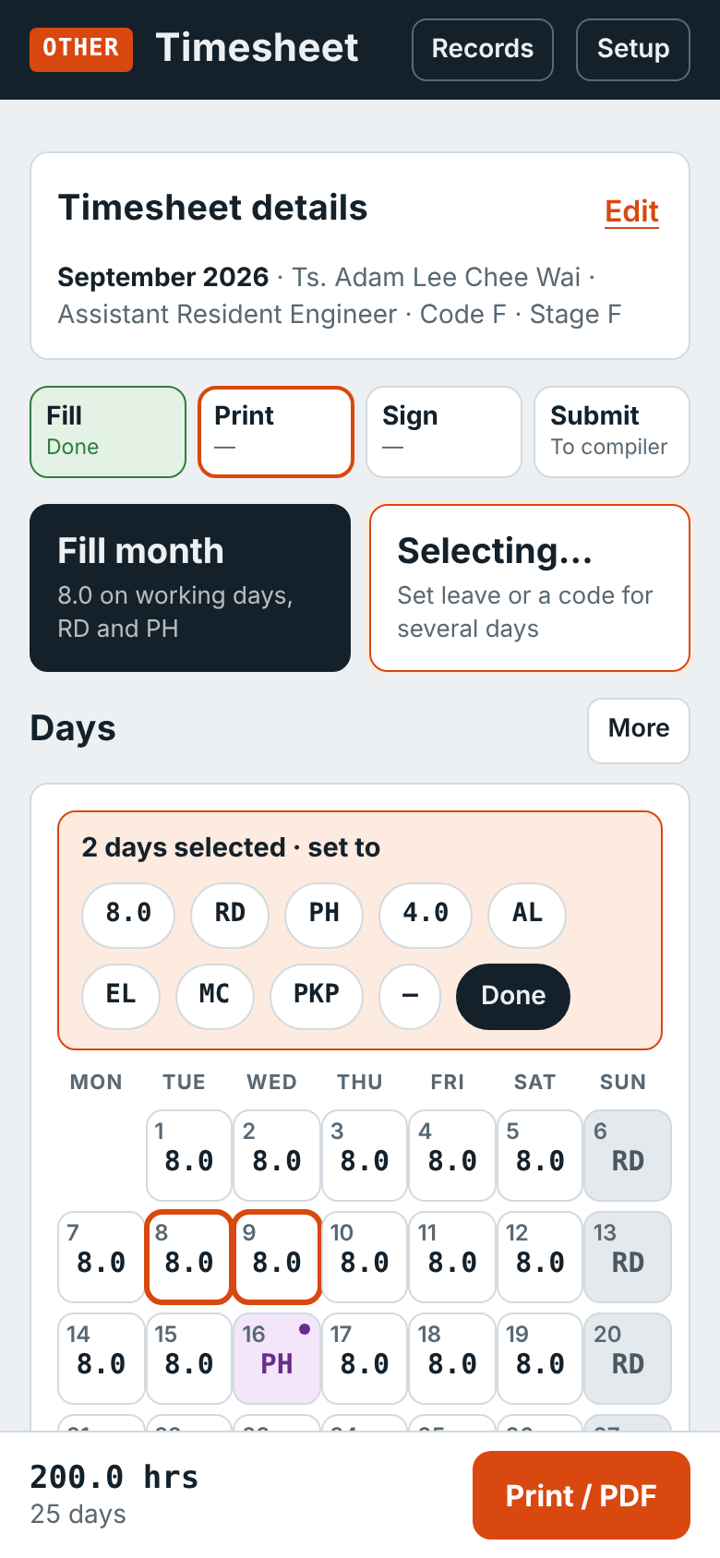
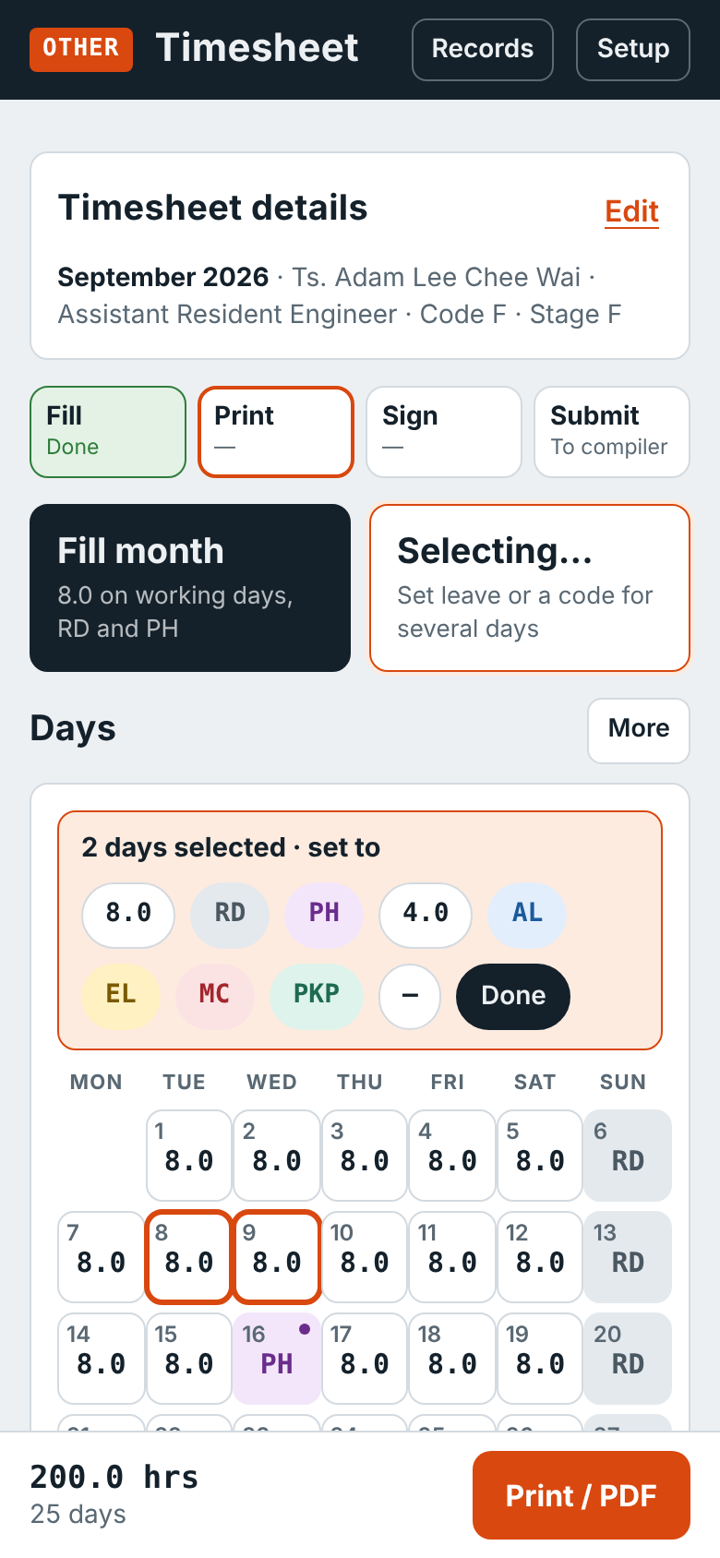
v0.9.7 beta - colour fill option

Changed region(s): [[0.0917, 0.5546, 0.5194, 0.6778], [0.6722, 0.5546, 0.7944, 0.6162]]

diff --git a/index.html b/index.html
@@ -22,6 +22,7 @@
   --bg:#EDF0F2; --surface:#FFFFFF; --sunk:#F5F7F8; --ink:#14212B; --muted:#596873; --line:#D3DAE0;
   --accent:#D9480F; --accent-ink:#FFFFFF; --accent-soft:#FDEBDF; --ok:#2F7D3B; --ok-soft:#E3F2E5; --warn:#9A5B00; --warn-soft:#FBF0D9;
   --rd:#E4E9ED; --rd-ink:#4A5862; --ph:#F3E6FA; --ph-ink:#6B2D8C; --lv:#E2EEFB; --lv-ink:#1C5A9C;
+  --el:#FFF1C2; --el-ink:#7A5A00; --mc:#FBE3E4; --mc-ink:#A3262E; --pkp:#DDF3EC; --pkp-ink:#1E6B52; --oc:#EFE6DC; --oc-ink:#6B4E2E;
   --chip:#E4E9ED; --scrim:rgba(14,22,28,.55); --shadow:0 1px 2px rgba(20,33,43,.08),0 4px 14px rgba(20,33,43,.06);
   --bar:#14212B; --bar-ink:#EDF0F2;
   --f-body:"Barlow",system-ui,-apple-system,"Segoe UI",Roboto,Arial,sans-serif;
@@ -33,11 +34,13 @@
   --bg:#0E1418; --surface:#172027; --sunk:#121A20; --ink:#E6ECF0; --muted:#97A5AF; --line:#2A3640;
   --accent:#FF7A33; --accent-ink:#1A0C03; --accent-soft:#3A2214; --ok:#6CC27A; --ok-soft:#18301D; --warn:#E3A93B; --warn-soft:#33270F;
   --rd:#22303A; --rd-ink:#A9B7C1; --ph:#2E2038; --ph-ink:#D6A8EE; --lv:#16283A; --lv-ink:#8DBDF0;
+  --el:#33290F; --el-ink:#EBC45E; --mc:#3A1B1F; --mc-ink:#F09AA0; --pkp:#13302A; --pkp-ink:#7FD3B7; --oc:#30261C; --oc-ink:#D7B48C;
   --chip:#22303A; --scrim:rgba(0,0,0,.6); --shadow:0 1px 2px rgba(0,0,0,.3); --bar:#0A1014; color-scheme:dark}}
 :root[data-theme="dark"]{
   --bg:#0E1418; --surface:#172027; --sunk:#121A20; --ink:#E6ECF0; --muted:#97A5AF; --line:#2A3640;
   --accent:#FF7A33; --accent-ink:#1A0C03; --accent-soft:#3A2214; --ok:#6CC27A; --ok-soft:#18301D; --warn:#E3A93B; --warn-soft:#33270F;
   --rd:#22303A; --rd-ink:#A9B7C1; --ph:#2E2038; --ph-ink:#D6A8EE; --lv:#16283A; --lv-ink:#8DBDF0;
+  --el:#33290F; --el-ink:#EBC45E; --mc:#3A1B1F; --mc-ink:#F09AA0; --pkp:#13302A; --pkp-ink:#7FD3B7; --oc:#30261C; --oc-ink:#D7B48C;
   --chip:#22303A; --scrim:rgba(0,0,0,.6); --shadow:0 1px 2px rgba(0,0,0,.3); --bar:#0A1014; color-scheme:dark}
 *{box-sizing:border-box}
 html,body{background:var(--bg);color:var(--ink);margin:0}
@@ -117,13 +120,19 @@ details.more[open] summary{margin-bottom:8px}
 .day.RD{background:var(--rd)} .day.RD .dv{color:var(--rd-ink)}
 .day.PH{background:var(--ph)} .day.PH .dv{color:var(--ph-ink)}
 .day.LV{background:var(--lv)} .day.LV .dv{color:var(--lv-ink)}
+.k-RD{--kb:var(--rd);--ki:var(--rd-ink)} .k-PH{--kb:var(--ph);--ki:var(--ph-ink)} .k-AL{--kb:var(--lv);--ki:var(--lv-ink)} .k-EL{--kb:var(--el);--ki:var(--el-ink)}
+.k-MC{--kb:var(--mc);--ki:var(--mc-ink)} .k-PKP{--kb:var(--pkp);--ki:var(--pkp-ink)} .k-OC{--kb:var(--oc);--ki:var(--oc-ink)}
+.day[class*=" k-"]{background:var(--kb);border-color:transparent} .day[class*=" k-"] .dv{color:var(--ki)}
+.chip[class*=" k-"]{background:var(--kb);border-color:transparent} .chip[class*=" k-"] b{color:var(--ki)}
+.bulkbar button[class*="k-"]{background:var(--kb);color:var(--ki);border-color:transparent}
 .day.isph::after{content:"";position:absolute;top:5px;right:5px;width:6px;height:6px;border-radius:50%;background:var(--ph-ink)}
 .day.today{outline:2px solid var(--ink);outline-offset:-1px}
 .day.sel{outline:3px solid var(--accent);outline-offset:-2px}
 .day.note-mark .dn::after{content:" •";color:var(--accent)}
 .blank{visibility:hidden}
 .legend{display:flex;gap:6px 12px;flex-wrap:wrap;font-size:12.5px;color:var(--muted);margin-top:10px}
-.legend i{display:inline-block;width:12px;height:12px;border-radius:3px;vertical-align:-2px;margin-right:4px;border:1px solid var(--line)}
+.legend i{display:inline-block;min-width:26px;height:17px;padding:0 3px;border-radius:4px;vertical-align:-3px;margin-right:4px;border:1px solid transparent;background:var(--kb,var(--surface));color:var(--ki,var(--ink));font:600 10.5px/15px var(--f-mono);font-style:normal;text-align:center}
+.legend i.wk{border-color:var(--line)} .legend i.bl{border:1px dashed var(--muted);background:transparent;color:var(--muted)}
 .bulkbar{display:flex;align-items:center;gap:8px;flex-wrap:wrap;background:var(--accent-soft);border:1px solid var(--accent);border-radius:var(--r);padding:10px 12px;margin-bottom:10px}
 .bulkbar b{flex:1 1 100%;font-size:14.5px}
 .bulkbar button{border:1px solid var(--line);background:var(--surface);border-radius:999px;padding:6px 12px;font-weight:600;font-family:var(--f-mono);font-size:14px;min-height:36px}
@@ -188,7 +197,7 @@ details.more[open] summary{margin-bottom:8px}
 .chip{border:1px solid var(--line);background:var(--sunk);border-radius:10px;min-height:54px;padding:6px 4px;display:flex;flex-direction:column;align-items:center;justify-content:center;gap:1px;color:var(--ink)}
 .chip b{font-family:var(--f-mono);font-size:16px}
 .chip span{font-size:11.5px;color:var(--muted);text-align:center;line-height:1.15}
-.chip[aria-pressed="true"]{border:2px solid var(--accent);background:var(--accent-soft)}
+.chip[aria-pressed="true"]{border:2px solid var(--accent);background:var(--accent-soft)} .chip[class*=" k-"][aria-pressed="true"]{border:2px solid var(--accent);background:var(--kb)}
 .otgrid{display:grid;grid-template-columns:minmax(0,1fr) minmax(0,1fr);gap:8px}
 .stepper{display:flex;align-items:center;gap:4px}
 .stepper input{text-align:center;font-family:var(--f-mono)}
@@ -319,14 +328,7 @@ table.tbl td.n{font-family:var(--f-mono);text-align:right}
     <div class="panel">
       <div class="bulkbar" id="bulkbar" hidden><b id="bulk-n">Tap the days, then a code</b><span id="bulk-codes" style="display:contents"></span><button type="button" id="bulk-done" style="font-family:var(--f-body);background:var(--ink);color:var(--bg);border-color:var(--ink)">Done</button></div>
       <div class="cal" id="cal"></div>
-      <div class="legend">
-        <span><i style="background:var(--surface)"></i>Hours</span>
-        <span><i style="background:var(--rd)"></i>RD</span>
-        <span><i style="background:var(--ph)"></i>PH</span>
-        <span><i style="background:var(--lv)"></i>Leave</span>
-        <span><b style="color:var(--accent);font-family:var(--f-mono)">+2.0</b> overtime</span>
-        <span><b style="color:var(--accent)">•</b> note</span>
-      </div>
+      <div class="legend" id="cal-legend"></div>
     </div>
   </section>
 
@@ -383,6 +385,7 @@ table.tbl td.n{font-family:var(--f-mono);text-align:right}
     <div id="out-checks"></div>
     <div class="preview" id="preview"></div>
     <div class="out-actions">
+      <div class="oa"><b>Colour fill</b><div class="seg" data-fillseg></div><p data-fillhint></p></div>
       <div class="oa"><b>Mark under the form</b><div class="seg" data-markseg></div><p data-markhint></p></div>
       <div class="oa"><b>PDF for printing</b><button class="btn acc" id="btn-pdf-share" type="button">Share</button><button class="btn" id="btn-pdf-save" type="button">Save</button><button class="btn" id="btn-pdf-open" type="button">Open</button><p>A4 landscape, the official form. Print at actual size (100%), then sign. <button class="linkbtn" id="btn-sigadj" type="button">Adjust signature position</button></p></div>
       <div class="oa"><b>Excel</b><button class="btn" id="btn-xlsx" type="button">Save Excel</button><p>The official spreadsheet form, filled in.</p></div>
@@ -417,6 +420,7 @@ table.tbl td.n{font-family:var(--f-mono);text-align:right}
     </div>
     <button class="btn sm" id="t-addmine" type="button" style="justify-self:start">Add mine (this month)</button>
     <div id="t-list"></div>
+    <div class="rgrow"><b style="font-size:15px">Colour fill on the printed forms</b><div class="seg" data-fillseg></div><span class="s" data-fillhint></span></div>
     <div class="rgrow"><b style="font-size:15px">Mark under the printed forms</b><div class="seg" data-markseg></div><span class="s" data-markhint></span></div>
     <div class="btns"><button class="btn" id="t-signall" type="button">Sign all as RE</button><button class="btn pri" id="t-preview" type="button">Preview</button><button class="btn acc" id="t-pdf" type="button">Print all (PDF)</button><button class="btn" id="t-xlsx" type="button">One Excel workbook</button><button class="btn sm" id="t-csv" type="button">Summary CSV</button><button class="btn sm danger" id="t-clear" type="button">Clear</button></div>
 
@@ -599,6 +603,7 @@ function cfg() {
     signLayout: o.signLayout ?? PK.signLayout ?? "form",
     sigAdj: o.sigAdj ?? PK.sigAdj ?? {},
     pageId: (v => v === true ? "data" : v === "id" ? "sum" : v || "off")(o.pageId ?? PK.pageId ?? "off"),
+    colorFill: !!(o.colorFill ?? PK.colorFill ?? false),
     verifiers: Object.assign({ v1Name: "", v1Title: "Resident Engineer", v2Name: "", v2Title: "S.O. Representative" }, PK.verifiers || {}, o.verifiers || {}),
   };
 }
@@ -621,12 +626,13 @@ function month(y = S.ui.y, m = S.ui.m, create = true) {
   return S.months[k];
 }
 function touch(md) { md.updated = new Date().toISOString(); save(); }
+/* colour key of a day code: RD, PH, AL, EL, MC, PKP, or OC for any other code */
+function codeKey(v) { v = String(v ?? "").trim().toUpperCase(); return ["RD", "PH", "AL", "EL", "MC", "PKP"].includes(v) ? v : "OC"; }
+function kcls(v) { return v === "" || v == null || isNum(v) ? "" : "k-" + codeKey(v); }
 function classOf(v) {
   if (v === "" || v == null) return "empty";
   if (isNum(v)) return "HRS";
-  if (v === "RD") return "RD";
-  if (v === "PH") return "PH";
-  return "LV";
+  return (v === "RD" ? "RD" : v === "PH" ? "PH" : "LV") + " " + kcls(v);
 }
 function totals(md, y, m) {
   const n = daysIn(y, m);
@@ -687,6 +693,18 @@ const ROLE = {
   label: { sz: 10, b: 1, h: "left" }, month: { sz: 10, b: 1, h: "center" }, year: { sz: 10, b: 1, h: "left" },
 };
 const RED = "FF0000";
+/* optional colour fill on the printed form: the day's column (time codes 1-5) for RD, PH and leave; text stays black.
+   Light print-friendly tints of the app's calendar colours. */
+const PRINT_FILL = { RD: "D9DEE3", PH: "E9D5F5", AL: "CFE2F7", EL: "FFE9A8", MC: "F7CFD2", PKP: "C9EBDF", OC: "E6D8C8" };
+function fillCells(sheet) {
+  if (!sheet.cfg.colorFill) return [];
+  const { y, m, md } = sheet, out = [];
+  for (let d = 1; d <= daysIn(y, m); d++) {
+    const v = md.rows[0].v[d]; if (v === undefined || v === "" || isNum(v)) continue;
+    for (let i = 0; i < md.rows.length; i++) out.push({ ref: `${dayCol(d)}${17 + i}`, color: PRINT_FILL[codeKey(v)] });
+  }
+  return out;
+}
 const DOTS = "…………………………………………………………………";
 
 function formCells(sheet) {
@@ -815,6 +833,7 @@ function textOps(rc, spec, runs) {
 }
 function sheetOps(sheet) {
   const L = LAYOUT, G = geometry(L), ops = [];
+  fillCells(sheet).forEach(f => { const r = G.rect(f.ref); ops.push({ k: "fill", x: r.x, y: r.y, w: r.w, h: r.h, color: f.color }); });
   L.lines.forEach(([x1, y1, x2, y2]) => ops.push({ k: "line", x1, y1, x2, y2 }));
   L.images.forEach(im => ops.push({ k: "img", x: im.x, y: im.y, w: im.w, h: im.h, src: im.src }));
   L.shapes.forEach(sh => {
@@ -858,7 +877,8 @@ async function drawSheetPDF(doc, sheet) {
   const X = x => pl.x0 + x * k, Y = y => pl.y0 + y * k;
   doc.setDrawColor(0); doc.setLineWidth(0.5);
   for (const o of ops) {
-    if (o.k === "line") doc.line(X(o.x1), Y(o.y1), X(o.x2), Y(o.y2));
+    if (o.k === "fill") { doc.setFillColor(...hex(o.color)); doc.rect(X(o.x), Y(o.y), o.w * k, o.h * k, "F"); }
+    else if (o.k === "line") doc.line(X(o.x1), Y(o.y1), X(o.x2), Y(o.y2));
     else if (o.k === "img") doc.addImage(o.data || await logoDataURL(o.src), o.fmt || "JPEG", X(o.x), Y(o.y), o.w * k, o.h * k);
     else if (o.k === "text") {
       let widths = o.runs.map(r => measure(r.t, r.sz, r.b));
@@ -895,6 +915,7 @@ function sheetSVG(sheet) {
   const { ops, W, H } = sheetOps(sheet), pl = pagePlacement(LAYOUT, W, H), k = pl.k;
   const X = x => (pl.x0 + x * k).toFixed(2), Y = y => (pl.y0 + y * k).toFixed(2);
   let s = `<svg xmlns="http://www.w3.org/2000/svg" viewBox="0 0 ${pl.pw} ${pl.ph}" role="img" aria-label="Timesheet preview"><rect width="100%" height="100%" fill="#fff"/>`;
+  ops.filter(o => o.k === "fill").forEach(o => s += `<rect x="${X(o.x)}" y="${Y(o.y)}" width="${(o.w * k).toFixed(2)}" height="${(o.h * k).toFixed(2)}" fill="#${o.color}"/>`);
   s += `<g stroke="#000" stroke-width="0.5">`;
   ops.filter(o => o.k === "line").forEach(o => s += `<line x1="${X(o.x1)}" y1="${Y(o.y1)}" x2="${X(o.x2)}" y2="${Y(o.y2)}"/>`);
   s += `</g><g font-family="Helvetica, Arial, sans-serif">`;
@@ -949,14 +970,36 @@ function xmlCellWriter(doc) {
     const fa = t("family"); fa.setAttribute("val", "2"); pr.appendChild(fa);
     r.appendChild(pr); const tt = t("t", run.t); tt.setAttribute("xml:space", "preserve"); r.appendChild(tt); return r;
   }
-  return function write(c, styleId) {
+  function restyle(ref, fn) {   // change a cell's style without touching its content
+    const [cl, r] = splitRef(ref), row = rowEl(r), cs = [...row.getElementsByTagName("c")];
+    let el = cs.find(x => x.getAttribute("r") === ref);
+    if (!el) { el = doc.createElementNS(NS, "c"); el.setAttribute("r", ref); const after = cs.find(x => colIdx(splitRef(x.getAttribute("r"))[0]) > colIdx(cl)); row.insertBefore(el, after || null); }
+    el.setAttribute("s", fn(Number(el.getAttribute("s") || 0)));
+  }
+  write.restyle = restyle;
+  return write;
+  function write(c, styleId) {
     const el = cellEl(c.ref);
     if (styleId != null) el.setAttribute("s", styleId);
     if (c.rich) { el.setAttribute("t", "inlineStr"); const is = t("is"); c.rich.forEach(r => is.appendChild(runEl(r))); el.appendChild(is); }
     else if (c.formula) { el.appendChild(t("f", c.formula)); el.appendChild(t("v", String(c.num))); }
     else if (c.num != null && c.str == null) el.appendChild(t("v", String(c.num)));
     else { el.setAttribute("t", "inlineStr"); const is = t("is"), tt = t("t", c.str); tt.setAttribute("xml:space", "preserve"); is.appendChild(tt); el.appendChild(is); }
-  };
+  }
+}
+/* styles.xml helper: a copy of cell style `s` with a solid fill colour (cached) */
+function fillStyler(stylesXml) {
+  const doc = new DOMParser().parseFromString(stylesXml, "application/xml"), fills = doc.getElementsByTagName("fills")[0], xfs = doc.getElementsByTagName("cellXfs")[0];
+  const fillIds = {}, cache = {};
+  const fillId = color => { if (fillIds[color] != null) return fillIds[color];
+    const f = doc.createElementNS(NS, "fill"), pf = doc.createElementNS(NS, "patternFill"), fg = doc.createElementNS(NS, "fgColor"), bg = doc.createElementNS(NS, "bgColor");
+    pf.setAttribute("patternType", "solid"); fg.setAttribute("rgb", "FF" + color); bg.setAttribute("indexed", "64"); pf.appendChild(fg); pf.appendChild(bg); f.appendChild(pf); fills.appendChild(f);
+    fills.setAttribute("count", fills.getElementsByTagName("fill").length); return (fillIds[color] = fills.getElementsByTagName("fill").length - 1); };
+  return { style(sid, color) { const key = sid + "|" + color; if (cache[key] != null) return cache[key];
+      const list = [...xfs.getElementsByTagName("xf")], x = (list[sid] || list[0]).cloneNode(true);
+      x.setAttribute("fillId", fillId(color)); x.setAttribute("applyFill", "1"); xfs.appendChild(x); xfs.setAttribute("count", list.length + 1);
+      return (cache[key] = list.length); },
+    xml: () => new XMLSerializer().serializeToString(doc) };
 }
 function safeSheetName(s, used) {
   let n = String(s).replace(/[\[\]:*?/\\]/g, " ").replace(/\s+/g, " ").trim().slice(0, 31) || "Sheet";
@@ -971,12 +1014,14 @@ async function makeXLSX(sheets, names) {
   const tplDrawRels = await zip.file("xl/drawings/_rels/drawing1.xml.rels").async("string");
   const sheetRels = n => `<?xml version="1.0" encoding="UTF-8" standalone="yes"?>\n<Relationships xmlns="http://schemas.openxmlformats.org/package/2006/relationships"><Relationship Id="rId1" Type="http://schemas.openxmlformats.org/officeDocument/2006/relationships/drawing" Target="../drawings/drawing${n}.xml"/></Relationships>`;
   const ids = LAYOUT.styles, used = new Set();
+  const styler = sheets.some(sh => sh.cfg.colorFill) ? fillStyler(await zip.file("xl/styles.xml").async("string")) : null;
   const sheetEntries = [], definedNames = [], overrides = [], wbRels = [];
   sheets.forEach((sh, i) => {
     const n = i + 1;
     const doc = new DOMParser().parseFromString(tplSheet, "application/xml");
     const write = xmlCellWriter(doc);
     formCells(sh).forEach(c => write(c, ids[c.role]));
+    if (styler) fillCells(sh).forEach(f => write.restyle(f.ref, sid => styler.style(sid, f.color)));
     // days beyond the month: clear the heading so the sheet shows the real month length
     const xml = new XMLSerializer().serializeToString(doc);
     zip.file(`xl/worksheets/sheet${n}.xml`, xml);
@@ -1003,6 +1048,7 @@ async function makeXLSX(sheets, names) {
     wbRels.push(`<Relationship Id="rId${n}" Type="http://schemas.openxmlformats.org/officeDocument/2006/relationships/worksheet" Target="worksheets/sheet${n}.xml"/>`);
   });
   const N = sheets.length;
+  if (styler) zip.file("xl/styles.xml", styler.xml());
   zip.file("xl/workbook.xml", `<?xml version="1.0" encoding="UTF-8" standalone="yes"?>\n<workbook xmlns="${NS}" xmlns:r="http://schemas.openxmlformats.org/officeDocument/2006/relationships"><workbookPr defaultThemeVersion="124226"/><bookViews><workbookView xWindow="0" yWindow="0" windowWidth="25000" windowHeight="13000" activeTab="0"/></bookViews><sheets>${sheetEntries.join("")}</sheets><definedNames>${definedNames.join("")}</definedNames><calcPr calcId="191029" fullCalcOnLoad="1"/></workbook>`);
   zip.file("xl/_rels/workbook.xml.rels", `<?xml version="1.0" encoding="UTF-8" standalone="yes"?>\n<Relationships xmlns="http://schemas.openxmlformats.org/package/2006/relationships">${wbRels.join("")}<Relationship Id="rId${N + 1}" Type="http://schemas.openxmlformats.org/officeDocument/2006/relationships/theme" Target="theme/theme1.xml"/><Relationship Id="rId${N + 2}" Type="http://schemas.openxmlformats.org/officeDocument/2006/relationships/styles" Target="styles.xml"/></Relationships>`);
   zip.file("[Content_Types].xml", `<?xml version="1.0" encoding="UTF-8" standalone="yes"?>\n<Types xmlns="http://schemas.openxmlformats.org/package/2006/content-types"><Default Extension="jpeg" ContentType="image/jpeg"/><Default Extension="png" ContentType="image/png"/><Default Extension="rels" ContentType="application/vnd.openxmlformats-package.relationships+xml"/><Default Extension="xml" ContentType="application/xml"/><Override PartName="/xl/workbook.xml" ContentType="application/vnd.openxmlformats-officedocument.spreadsheetml.sheet.main+xml"/>${overrides.join("")}<Override PartName="/xl/theme/theme1.xml" ContentType="application/vnd.openxmlformats-officedocument.theme+xml"/><Override PartName="/xl/styles.xml" ContentType="application/vnd.openxmlformats-officedocument.spreadsheetml.styles+xml"/><Override PartName="/docProps/core.xml" ContentType="application/vnd.openxmlformats-package.core-properties+xml"/><Override PartName="/docProps/app.xml" ContentType="application/vnd.openxmlformats-officedocument.extended-properties+xml"/></Types>`);
@@ -1302,7 +1348,7 @@ async function previewTeam() {
 /* ---------------------------------------------------------------- team timesheets (data files) */
 function teamSheet(d) {
   const [yy, mm] = d.month.split("-").map(Number);
-  const c = Object.assign({}, cfg(), d.cfg || {});
+  const c = Object.assign({}, cfg(), d.cfg || {}); c.colorFill = cfg().colorFill; c.pageId = cfg().pageId;
   return { pkg: d.pkg || S.pkg, profile: d.profile, cfg: c, y: yy, m: mm - 1, md: d.md };
 }
 async function loadTeamFiles(files) {
@@ -1575,6 +1621,10 @@ function renderCal() {
     h += `<button type="button" class="${cls.join(" ")}" data-day="${d}" aria-label="${esc(title)}: ${esc(v || "blank")}" title="${esc(title)}"><span class="dn">${d}</span><span class="dv">${show}</span><span class="ot">${ot ? "+" + fmt1(ot) : ""}</span></button>`;
   }
   $("#cal").innerHTML = h;
+  const lv = leaveCodes().filter(x => !["RD", "PH"].includes(x.code));
+  $("#cal-legend").innerHTML = [`<span><i class="wk">${fmt1(cfg().normalHours)}</i>Hours worked</span>`, `<span><i class="k-RD">RD</i>Rest day</span>`, `<span><i class="k-PH">PH</i>Public holiday</span>`,
+    ...lv.map(x => `<span><i class="${kcls(x.code)}">${esc(x.code)}</i>${esc(x.name)}</span>`), `<span><i class="k-OC">…</i>Other code</span>`, `<span><i class="bl">–</i>Blank</span>`,
+    `<span><b style="color:var(--accent);font-family:var(--f-mono)">+2.0</b> Overtime</span>`, `<span><b style="color:var(--accent)">•</b> Note</span>`].join("");
 }
 
 /* ---------------------------------------------------------------- status (tap to mark, tap again to undo) */
@@ -1638,7 +1688,7 @@ function renderDay() {
   $("#day-title").firstChild.textContent = `${DOW[dt.getDay()]} ${d} ${MONTHS[m]} ${y}`;
   $("#day-sub").textContent = hol ? `Public holiday: ${hol}` : c.restDays.includes(dt.getDay()) ? "Rest day" : "Working day";
   const v = md.rows[0].v[d] ?? "", chips = dayCodes();
-  $("#day-chips").innerHTML = chips.map(ch => `<button type="button" class="chip" data-val="${esc(ch.v)}" aria-pressed="${ch.v === v}"><b>${esc(ch.b)}</b><span>${esc(ch.s)}</span></button>`).join("");
+  $("#day-chips").innerHTML = chips.map(ch => `<button type="button" class="chip ${kcls(ch.v)}" data-val="${esc(ch.v)}" aria-pressed="${ch.v === v}"><b>${esc(ch.b)}</b><span>${esc(ch.s)}</span></button>`).join("");
   $("#day-hours").value = isNum(v) ? v : "";
   $("#day-other").value = (!isNum(v) && v && !chips.some(ch => ch.v === v)) ? v : "";
   $("#day-ot").innerHTML = OT_CODES.map(o => `<div><label class="lbl" for="ot-${o.row}">${o.code} · ${esc(o.name)}</label>
@@ -1663,7 +1713,7 @@ function setSelectMode(on) {
   $("#btn-select b").textContent = on ? "Selecting…" : "Select days";
   $("#bulkbar").hidden = !on;
   if (on) {
-    $("#bulk-codes").innerHTML = dayCodes().map(x => `<button type="button" data-setsel="${esc(x.v)}" title="${esc(x.s)}">${esc(x.b)}</button>`).join("");
+    $("#bulk-codes").innerHTML = dayCodes().map(x => `<button type="button" class="${kcls(x.v)}" data-setsel="${esc(x.v)}" title="${esc(x.s)}">${esc(x.b)}</button>`).join("");
     $("#bulk-n").textContent = "Tap the days, then a code";
   }
   renderCal();
@@ -1679,11 +1729,16 @@ function applySel(val) {
 /* mark under the printed form: chosen on the Print / PDF screen and next to Print all */
 const MARKS = { off: ["None", "Nothing under the form. The compiler's app reads the printed name on the scanned pages."], sum: ["Summary QR", "About 13 mm in the bottom corner, outside the form: project, month, name, designation, normal and OT hours. Lets the compiler's app identify each scanned page and list the hours."], data: ["Full QR", "About 28 mm: the whole timesheet, day by day. Lets a scan of the signed stack fill the compiler's team list."] };
 function renderMarkSeg() {
+  const f = cfg().colorFill;
+  $$("[data-fillseg]").forEach(el => el.innerHTML = `<button type="button" data-fill="0" aria-pressed="${!f}">None</button><button type="button" data-fill="1" aria-pressed="${f}">Colour by code</button>`);
+  $$("[data-fillhint]").forEach(el => el.textContent = f ? "The day's column is lightly tinted for RD, PH and leave (AL, EL, MC, PKP, other codes), so they stand out from normal working days. The text stays black. Print in colour." : "As the official form: no fill.");
   const v = cfg().pageId;
   $$("[data-markseg]").forEach(el => el.innerHTML = Object.entries(MARKS).map(([k, [l]]) => `<button type="button" data-mark="${k}" aria-pressed="${k === v}">${l}</button>`).join(""));
   $$("[data-markhint]").forEach(el => el.textContent = MARKS[v][1]);
 }
 document.addEventListener("click", e => {
+  const fb = e.target.closest("[data-fill]");
+  if (fb) { (S.over[S.pkg] = S.over[S.pkg] || {}).colorFill = fb.dataset.fill === "1"; save(); renderMarkSeg(); if (!$("#sh-out").hidden) renderOutput(); return; }
   const b = e.target.closest("[data-mark]"); if (!b) return;
   (S.over[S.pkg] = S.over[S.pkg] || {}).pageId = b.dataset.mark; save(); renderMarkSeg();
   if (!$("#sh-out").hidden) renderOutput();

diff --git a/sw.js b/sw.js
@@ -1,6 +1,6 @@
 /* Offline use: network first (so updates arrive), cached copy when there is no signal.
    Bump the version after changing files so phones fetch the new ones. */
-const C = "ts-v0.9.7";
+const C = "ts-v0.9.7-3";
 const PRE = ["./", "index.html", "manifest.webmanifest", "icon-192.png", "icon-512.png",
   "lib/jspdf.umd.min.js", "lib/jszip.min.js", "lib/pdf-lib.min.js", "lib/qrcode.min.js", "lib/jsQR.min.js", "lib/pdfjs.min.js", "lib/pdfjs.worker.min.js",
   "app-data.js", "templates/form.xlsx", "templates/form.layout.json", "templates/logo.jpeg",

diff --git a/tests/test_color_fill.py b/tests/test_color_fill.py
@@ -1,0 +1,53 @@
+"""Optional colour fill on the printed form (Print / PDF → Colour fill → Colour by code).
+
+    python3 -m http.server 8765 &
+    python3 tests/test_color_fill.py
+
+Off by default: no fill. On: the day's column (time codes 1-5) is tinted for RD, PH and leave,
+normal working days stay white, the text stays black; the Excel file gets the same fills with
+the form's borders kept.
+"""
+from playwright.sync_api import sync_playwright
+
+URL = "http://localhost:8765/index.html"
+errors = []
+
+with sync_playwright() as p:
+    br = p.chromium.launch()
+    pg = br.new_page(viewport={"width": 390, "height": 844})
+    pg.on("pageerror", lambda e: errors.append(str(e)))
+    pg.goto(URL)
+    pg.wait_for_selector("#w-name")
+    pg.fill("#w-name", "Ts. Adam Lee Chee Wai"); pg.click("#w-go")
+    pg.evaluate("""() => { S.ui.y = 2026; S.ui.m = 8; save(); fillMonth(false); const v = month().rows[0].v;
+        v[3] = 'AL'; v[9] = 'EL'; v[15] = 'MC'; v[23] = 'CT'; save(); render(); }""")
+    off = pg.evaluate("() => sheetOps(sheetFor(2026, 8)).ops.filter(o => o.k === 'fill').length")
+    pg.click("#dock-go"); pg.wait_for_timeout(300)
+    pg.click('[data-fill="1"]'); pg.wait_for_timeout(300)
+    r = pg.evaluate("""async () => {
+        const sh = sheetFor(2026, 8), ops = sheetOps(sh).ops, fills = ops.filter(o => o.k === 'fill');
+        const codeText = ops.filter(o => o.k === 'text' && o.runs.some(x => ['AL', 'EL', 'MC', 'CT', 'RD', 'PH'].includes(x.t))).map(o => o.runs[0].color || '000000');
+        const svg = sheetSVG(sh), colors = [...new Set(fills.map(f => f.color))].sort();
+        const zip = await JSZip.loadAsync(await makeXLSX([sh], ['Sept']));
+        const styles = await zip.file('xl/styles.xml').async('string'), sheet = await zip.file('xl/worksheets/sheet1.xml').async('string');
+        const sid = ref => Number((new RegExp(`<c r="${ref}"[^>]*s="(\\\\d+)"`).exec(sheet) || [])[1]);
+        const xfs = [...new DOMParser().parseFromString(styles, 'application/xml').getElementsByTagName('cellXfs')[0].getElementsByTagName('xf')];
+        const fillOf = ref => Number(xfs[sid(ref)].getAttribute('fillId')), borderOf = ref => xfs[sid(ref)].getAttribute('borderId');
+        return { first: fills.findIndex(o => true) === 0 && ops[0].k === 'fill', n: fills.length, colors, codeText: [...new Set(codeText)],
+                 svgFill: svg.includes('fill="#CFE2F7"'), pressed: document.querySelector('[data-fill="1"]').getAttribute('aria-pressed'),
+                 xl: { G17: fillOf('G17') > 2, G21: fillOf('G21') > 2, E17: fillOf('E17'), border: borderOf('G19') === borderOf('F19') } };
+    }""")
+    print("off", off, r)
+    assert off == 0
+    assert r["first"] and r["pressed"] == "true"
+    days = 4 + 4 + 1                                   # AL, EL, MC, CT, 4 Sundays (RD), 1 PH
+    assert r["n"] == days * 5, r["n"]                  # 5 time-code rows per day
+    assert r["colors"] == sorted({"CFE2F7", "FFE9A8", "F7CFD2", "E6D8C8", "D9DEE3", "E9D5F5"}), r["colors"]
+    assert r["codeText"] == ["000000"], r["codeText"]  # text stays black
+    assert r["svgFill"]
+    assert r["xl"]["G17"] and r["xl"]["G21"] and r["xl"]["E17"] <= 2 and r["xl"]["border"], r["xl"]
+    br.close()
+
+print("errors:", errors)
+assert not errors
+print("OK")

diff --git a/GUIDE.md b/GUIDE.md
@@ -60,14 +60,17 @@ Check the project code at the top left. Tap it to change to another project. **T
 
 <p><img src="guide/06_summary.png" alt="Summary: hours, overtime, days, RD/PH, leave and a ready-to-print note" width="360"></p>
 
+Each code has its own colour on the calendar: **RD** grey, **PH** purple, **AL** blue, **EL** yellow, **MC** red, **PKP** green, any other code brown, a dashed box for a blank day. The legend under the calendar shows them. The printed form is not coloured unless you choose *Colour fill* on the Print / PDF screen (section 3).
+
 Everything is saved on the phone as you go.
 
 ## 3. Print
 
 1. Tap **Print / PDF** in the bottom bar. The preview is the A4 page, laid out as the official form; **Zoom** to check the figures.
-2. **Mark under the form**: *None* (default), *Summary QR* (about 13 mm in the bottom corner, outside the form: project, month, name, designation, normal and OT hours) or *Full QR* (about 28 mm, the whole timesheet). Use what your compiler asks for.
-3. **PDF for printing**: **Share** (WhatsApp, e-mail, a printer app), **Save**, or **Open** to print from the viewer. Print on A4 at **actual size (100%)**, not "fit to page".
-4. **Excel**: the official spreadsheet form, filled in.
+2. **Colour fill** (optional): *None* (default, as the official form) or *Colour by code*. With colour, the day's column is lightly tinted for RD, PH and leave in the same colours as the calendar, so they stand out from normal working days. The text stays black. Print in colour. The Excel file gets the same fill.
+3. **Mark under the form**: *None* (default), *Summary QR* (about 13 mm in the bottom corner, outside the form: project, month, name, designation, normal and OT hours) or *Full QR* (about 28 mm, the whole timesheet). Use what your compiler asks for.
+4. **PDF for printing**: **Share** (WhatsApp, e-mail, a printer app), **Save**, or **Open** to print from the viewer. Print on A4 at **actual size (100%)**, not "fit to page".
+5. **Excel**: the official spreadsheet form, filled in.
 
 <p><img src="guide/07_print.png" alt="Print / PDF: preview of the form and the mark choice" width="260">&nbsp;<img src="guide/08_print_actions.png" alt="PDF, Excel, Send to the compiler and WhatsApp text" width="260"></p>
 
@@ -126,7 +129,7 @@ Set your role to **Compiler** or **RE** in Setup. **HQ submission** appears at t
 **1 · Team timesheets**
 
 1. **Scan team QR**: each person shows their QR (section 5); the app confirms each name. A printed timesheet's QR works too. **Load data files** reads files sent on WhatsApp; **Add mine** adds your own month.
-2. **Mark under the printed forms**: the same choice as on Print / PDF.
+2. **Colour fill** and **Mark under the printed forms**: the same choices as on Print / PDF, used for everyone's sheet.
 3. **Preview**, then **Print all (PDF)**: everyone's timesheet, one page each, ready for stamps and signatures. **One Excel workbook** (a sheet per person) and **Summary CSV** (hours, overtime, leave per person) are there too.
 
 <p><img src="guide/16_team.png" alt="Team timesheets: three people with hours and OT, mark choice, Preview and Print all" width="300"></p>

diff --git a/README.md b/README.md
@@ -21,7 +21,7 @@ Filling in the timesheet spreadsheet at the end of the month needs a laptop. The
 | **Tap a day** | 8.0, RD, PH, half day, AL, EL, MC, PKP, any hours or another code. Overtime under time codes 2–5. A private note per day. |
 | **Select days** | Set several days at once, e.g. a week of annual leave. |
 | **Checks** | Blank days, overtime under the wrong code, hours on a PH or RD that should be overtime, more than 24 hours in a day, missing details. |
-| **Print / PDF** | A4 landscape PDF drawn from the official spreadsheet form: same column widths, borders, header, codes, signature box and print scale. Share, save or open to print. |
+| **Print / PDF** | A4 landscape PDF drawn from the official spreadsheet form: same column widths, borders, header, codes, signature box and print scale. Share, save or open to print. Optional **colour fill**: the day's column tinted for RD, PH and leave (text stays black), also in the Excel file; off by default. |
 | **Excel** | The official form itself, filled in: formatting, header, `=SUM()` totals and print setup kept. |
 | **Document scanner** | Scan the signed sheet: the live camera finds the page edges, you can drag the corners, and the page is straightened and cleaned up (B&W, grey or colour). |
 | **Status** | Printed → Signed → Sent to HQ per month; tap again to undo. **Records** lists every month with its scans. |
@@ -120,6 +120,7 @@ Set `appUrl` in `packages/index.json` to the app's address so the HQ cover page 
 | `tests/test_app.py` | Automatic check: fills a sample month; checks totals, status undo, QR round trip, document scanner steps, PDF, Excel and HQ PDF |
 | `tests/test_id_mark.py` | Automatic check: the summary QR stays small (29 × 29 squares, about 13 mm) and its name, designation and hours are read from a noisy 200 dpi scan |
 | `tests/test_sign_scan.py` | Automatic check: PIN, roles, signature dropped when hours change, signatures in the QR, PDF and Excel; a simulated 200 dpi photocopier scan recognised page by page and the team list rebuilt from it |
+| `tests/test_color_fill.py` | Automatic check: colour fill off by default; on, the right columns are tinted in the PDF, preview and Excel (borders kept), text stays black |
 | `tests/test_cover_edit.py` | Automatic check: the compiler types designation and hours in Check pages; the cover page uses them, marked *; clearing a box restores the automatic value |
 | `GUIDE.md`, `ROADMAP.md`, `CHANGELOG.md`, `LICENSE.md` | User guide, trial plan, version history, licence |
 

diff --git a/CHANGELOG.md b/CHANGELOG.md
@@ -7,6 +7,8 @@ Versions before 1.0.0 are for testing. 1.0.0 will be the first public release.
 - **Check pages: designation and hours editable.** For each scanned page the compiler can type or correct the designation, normal hours and OT hours used on the cover page, e.g. when the scan has no QR and the person is not in the team list. Entered hours are marked * on the cover page with a note. Clear a box to go back to the automatic value.
 - A name not in the team list can be typed in Check pages, and **Check pages** is available for every scan.
 - The HQ list flags pages **without hours**.
+- **Colour for each day code** on the calendar, the day editor and *Select days*: RD grey, PH purple, AL blue, EL yellow, MC red, PKP green, any other code brown, with a legend under the calendar. The printed form stays as the official form.
+- **Colour fill on the printed form** (optional, off by default): Print / PDF → *Colour fill* → *Colour by code*, also next to *Print all*. The day's column is lightly tinted for RD, PH and leave in the calendar colours; the text stays black. Applies to the PDF, the preview and the Excel file (borders kept).
 
 ## v0.9.6 beta – 16 October 2026
 
